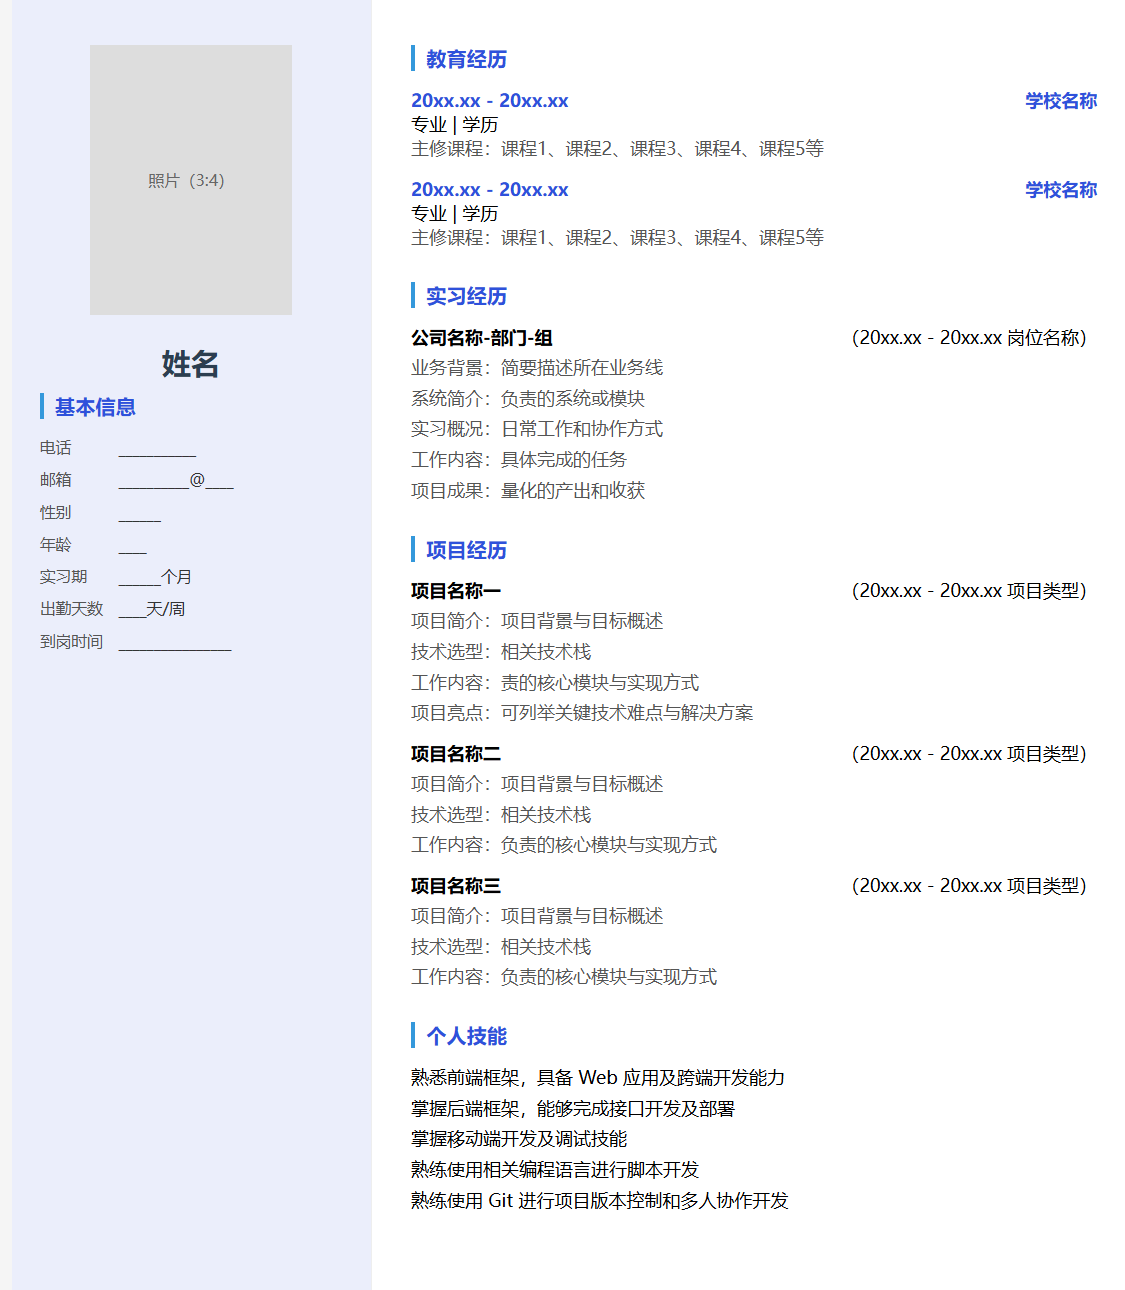
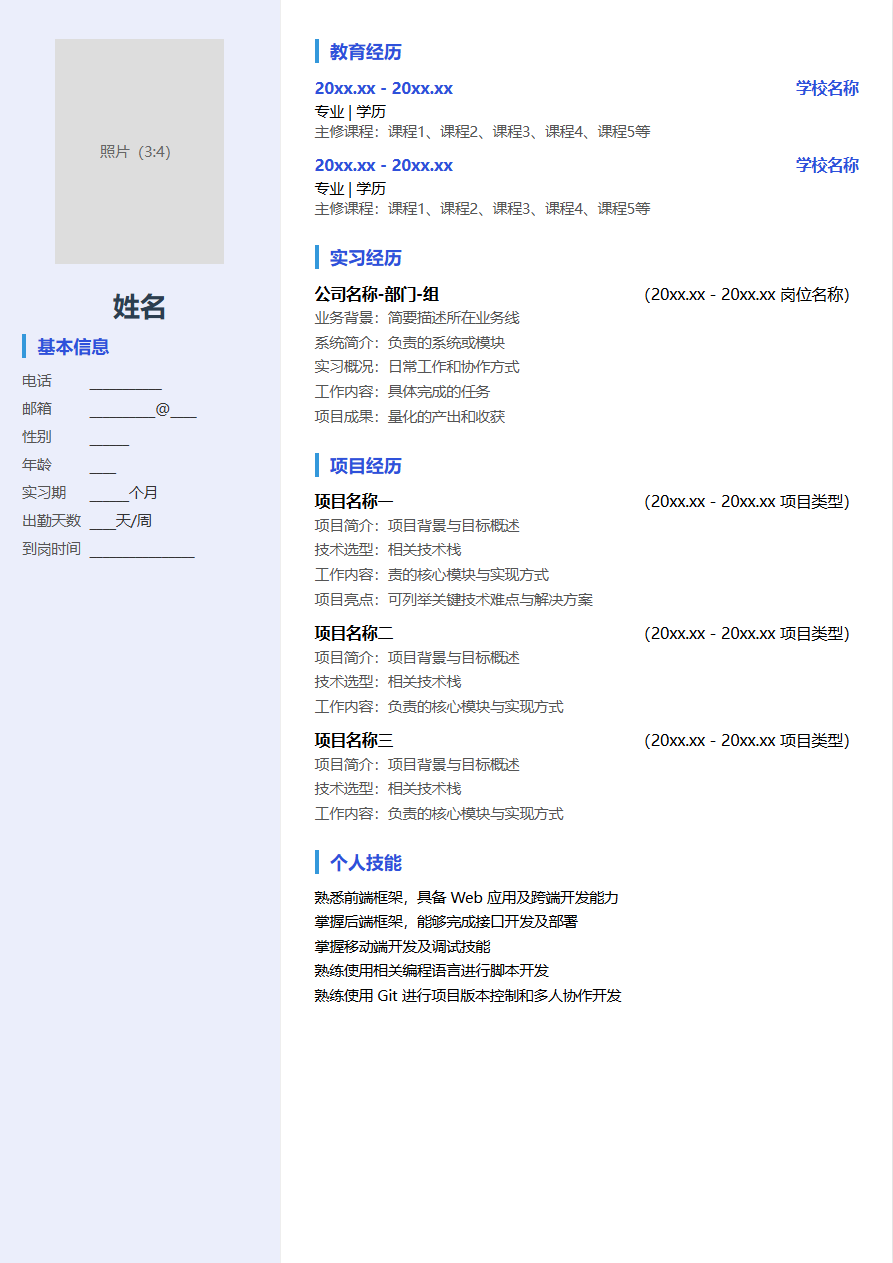
将容器宽度改为A4纸张比例（210mm×297mm），添加打印样式支持
- .resume 容器改用精确的 210mm×297mm A4 尺寸
- 左侧栏、头像、内边距按比例缩小适配
- 字号整体微调以适配 A4 版面
- 新增 @page { size: A4 } 打印样式
- 修正左侧栏 border-right 拼写错误
- 更新 README 中布局描述

diff --git a/个人简历_html模板.html b/个人简历_html模板.html
@@ -16,45 +16,47 @@
             padding: 30px 20px;
         }
         .resume {
-            max-width: 1000px;
+            width: 210mm;
+            min-height: 297mm;
             margin: 0 auto;
             background: white;
             display: flex;
             overflow: hidden;
+            box-shadow: 0 2px 12px rgba(0,0,0,0.15);
         }
 
         /* ========== 左侧栏 ========== */
         .left {
-            width: 320px;
+            width: 250px;
             background-color: rgb(235, 238, 251);
-            padding: 40px 25px;
+            padding: 35px 20px;
             border-right: 1px solid #eee;
         }
         .avatar {
-            width: 180px;
-            height: 240px;
-            margin: 0 auto 25px;
+            width: 150px;
+            height: 200px;
+            margin: 0 auto 20px;
             background-color: #ddd;
             display: flex;
             align-items: center;
             justify-content: center;
             color: #666;
-            font-size: 14px;
+            font-size: 13px;
         }
         .left-title {
-            font-size: 18px;
+            font-size: 16px;
             color: rgb(46, 81, 219);
             border-left: 4px solid #3498db;
             padding-left: 10px;
-            margin-bottom: 15px;
+            margin-bottom: 12px;
         }
         .info-item {
             display: flex;
-            margin-bottom: 10px;
-            font-size: 14px;
+            margin-bottom: 8px;
+            font-size: 13px;
         }
         .info-item .label {
-            width: 70px;
+            width: 60px;
             font-weight: 500;
             color: #555;
         }
@@ -66,62 +68,92 @@
         /* ========== 右侧内容 ========== */
         .right {
             flex: 1;
-            padding: 40px 35px;
+            padding: 35px 30px;
         }
         .resume-name {
-            font-size: 26px;
+            font-size: 24px;
             font-weight: bold;
             color: #2c3e50;
             text-align: center;
             padding-bottom: 10px;
         }
         .section {
-            margin-bottom: 30px;
+            margin-bottom: 24px;
         }
         .section h2 {
-            font-size: 18px;
+            font-size: 16px;
             color: rgb(46, 81, 219);
             border-left: 4px solid #3498db;
             padding-left: 10px;
-            margin-bottom: 15px;
+            margin-bottom: 12px;
         }
         .item {
-            margin-bottom: 15px;
+            margin-bottom: 12px;
         }
         .education-title {
             display: flex;
             flex-direction: row;
             justify-content: space-between;
             color: rgb(46, 81, 219);
+            font-size: 14px;
         }
         .project-title {
             display: flex;
             flex-direction: row;
             justify-content: space-between;
-            margin-bottom: 5px;
+            margin-bottom: 4px;
+            font-size: 14px;
         }
         .intern-title {
             display: flex;
             flex-direction: row;
             justify-content: space-between;
-            margin-bottom: 5px;
+            margin-bottom: 4px;
+            font-size: 14px;
         }
         .item .time {
             font-weight: bold;
+            font-size: 14px;
         }
         .item .school {
             font-weight: bold;
             margin-left: 10px;
+            font-size: 14px;
         }
         .item p {
             color: #555;
+            font-size: 13px;
+        }
+        .item .major {
+            font-size: 13px;
         }
         ul {
             padding-left: 20px;
             color: #333;
+            font-size: 13px;
         }
         p {
-            margin-bottom: 6px;
+            margin-bottom: 5px;
+            font-size: 13px;
+        }
+        /* ========== 打印样式 ========== */
+        @page {
+            size: A4;
+            margin: 0;
+        }
+        @media print {
+            body {
+                background-color: white;
+                padding: 0;
+                margin: 0;
+            }
+            .resume {
+                width: 210mm;
+                min-height: 297mm;
+                box-shadow: none;
+                margin: 0;
+                page-break-after: always;
+            }
         }
     </style>
 </head>

diff --git a/README.md b/README.md
@@ -22,7 +22,8 @@
 
 - 单文件零依赖，HTML + CSS 内联
 - 左右分栏布局，打印友好
-- 最宽 1000px，适合 A4 纸张输出
+- 容器宽度 210mm × 297mm，精确匹配 A4 纸张比例
+- 内置 `@page { size: A4 }` 打印样式，Ctrl+P 直接输出 A4 PDF
 
 ## 自定义
 
